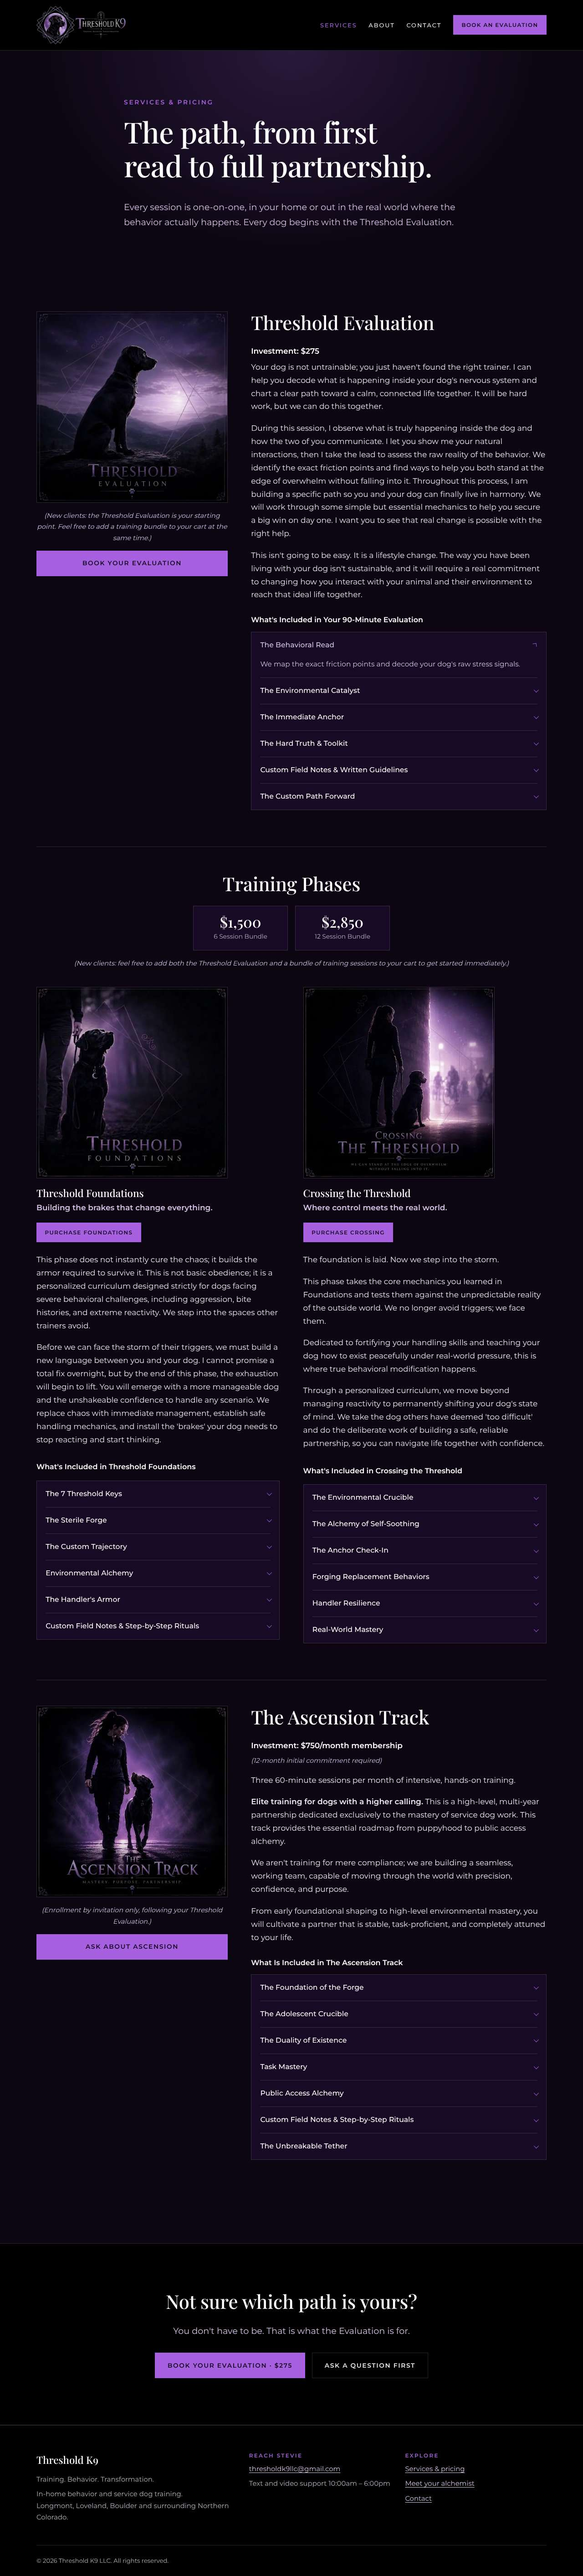
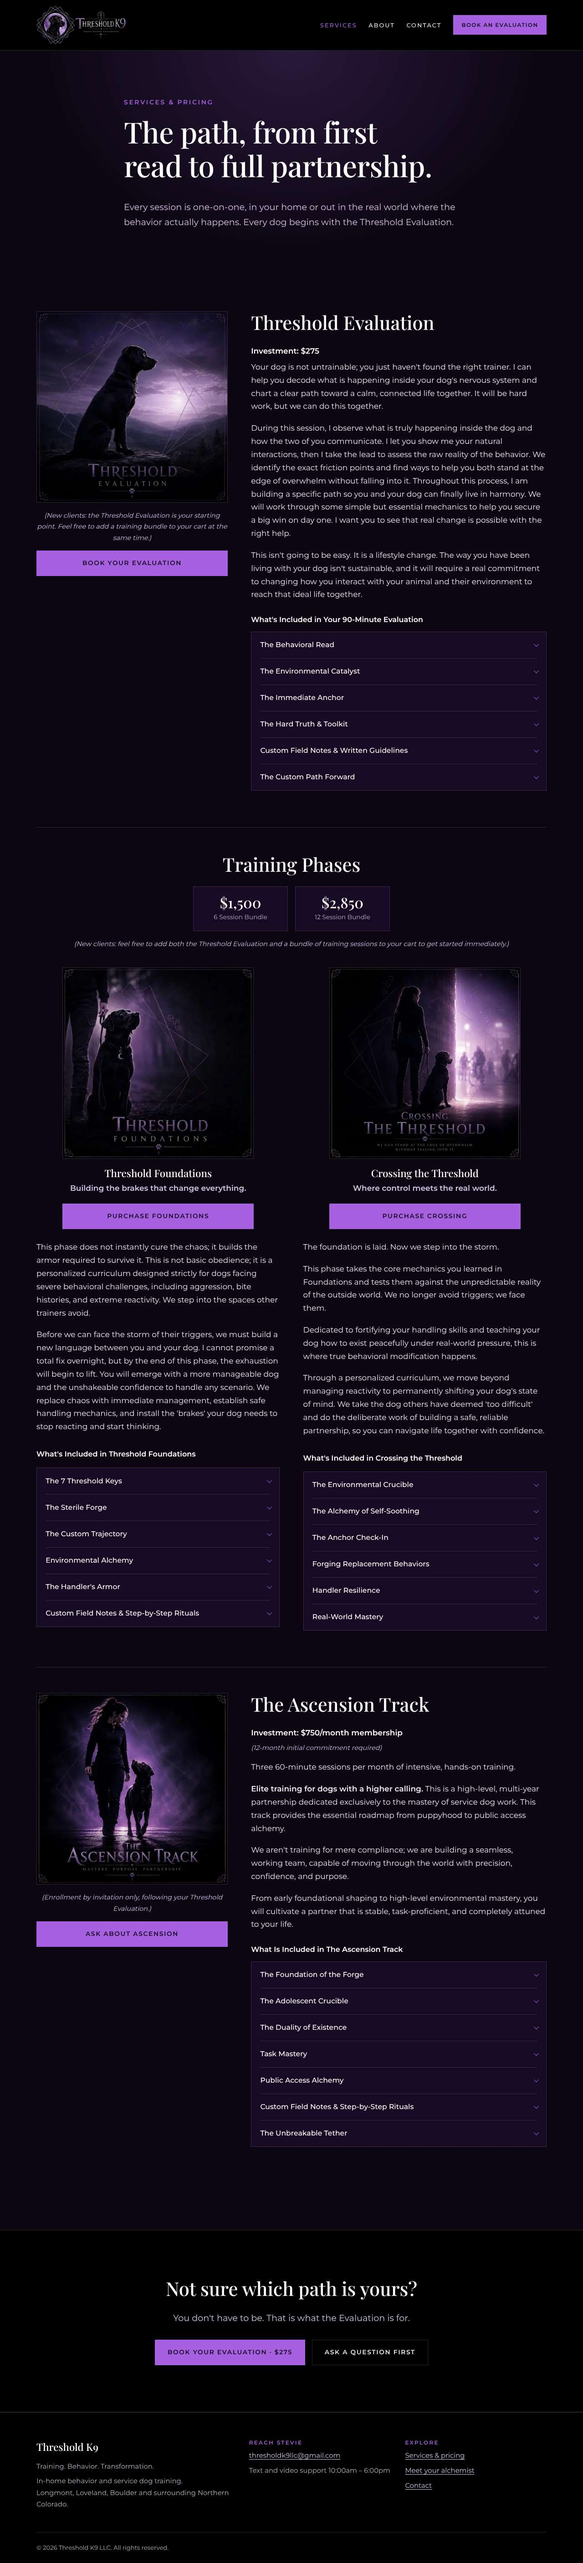
Services: center phase card headers, match all card buttons
Claude-Session: https://claude.ai/code/session_01FX71VwxAMGQj4Z4z8A3LuL

diff --git a/src/pages/services.html b/src/pages/services.html
@@ -14,7 +14,7 @@
       <div class="service-art">
         <img src="/assets/img/card-eval.webp" alt="Threshold Evaluation" width="800" height="800">
         <p class="aside center" style="margin-top:1rem">(New clients: the Threshold Evaluation is your starting point. Feel free to add a training bundle to your cart at the same time.)</p>
-        <a class="btn" style="display:block" href="{{bookUrl}}">Book your Evaluation</a>
+        <a class="btn btn-card" href="{{bookUrl}}">Book your Evaluation</a>
       </div>
       <div>
         <h2>Threshold Evaluation</h2>
@@ -44,10 +44,12 @@
 
       <div class="phase-grid">
         <article id="foundations">
-          <img src="/assets/img/card-foundations.webp" alt="Threshold Foundations" width="800" height="800" loading="lazy">
-          <h3>Threshold Foundations</h3>
-          <p class="tagline">Building the brakes that change everything.</p>
-          <a class="btn btn-small" href="{{bookUrl}}">Purchase Foundations</a>
+          <div class="phase-head">
+            <img src="/assets/img/card-foundations.webp" alt="Threshold Foundations" width="800" height="800" loading="lazy">
+            <h3>Threshold Foundations</h3>
+            <p class="tagline">Building the brakes that change everything.</p>
+            <a class="btn btn-card" href="{{bookUrl}}">Purchase Foundations</a>
+          </div>
           <p>This phase does not instantly cure the chaos; it builds the armor required to survive it. This is not basic obedience; it is a personalized curriculum designed strictly for dogs facing severe behavioral challenges, including aggression, bite histories, and extreme reactivity. We step into the spaces other trainers avoid.</p>
           <p>Before we can face the storm of their triggers, we must build a new language between you and your dog. I cannot promise a total fix overnight, but by the end of this phase, the exhaustion will begin to lift. You will emerge with a more manageable dog and the unshakeable confidence to handle any scenario. We replace chaos with immediate management, establish safe handling mechanics, and install the 'brakes' your dog needs to stop reacting and start thinking.</p>
           <h4 class="includes-head">What's Included in Threshold Foundations</h4>
@@ -62,10 +64,12 @@
         </article>
 
         <article id="crossing">
-          <img src="/assets/img/card-crossing.webp" alt="Crossing the Threshold" width="800" height="800" loading="lazy">
-          <h3>Crossing the Threshold</h3>
-          <p class="tagline">Where control meets the real world.</p>
-          <a class="btn btn-small" href="{{bookUrl}}">Purchase Crossing</a>
+          <div class="phase-head">
+            <img src="/assets/img/card-crossing.webp" alt="Crossing the Threshold" width="800" height="800" loading="lazy">
+            <h3>Crossing the Threshold</h3>
+            <p class="tagline">Where control meets the real world.</p>
+            <a class="btn btn-card" href="{{bookUrl}}">Purchase Crossing</a>
+          </div>
           <p>The foundation is laid. Now we step into the storm.</p>
           <p>This phase takes the core mechanics you learned in Foundations and tests them against the unpredictable reality of the outside world. We no longer avoid triggers; we face them.</p>
           <p>Dedicated to fortifying your handling skills and teaching your dog how to exist peacefully under real-world pressure, this is where true behavioral modification happens.</p>
@@ -87,7 +91,7 @@
       <div class="service-art">
         <img src="/assets/img/card-ascension.webp" alt="The Ascension Track" width="800" height="800" loading="lazy">
         <p class="aside center" style="margin-top:1rem">(Enrollment by invitation only, following your Threshold Evaluation.)</p>
-        <a class="btn" style="display:block" href="/contact/">Ask about Ascension</a>
+        <a class="btn btn-card" href="/contact/">Ask about Ascension</a>
       </div>
       <div>
         <h2>The Ascension Track</h2>

diff --git a/src/assets/site.css b/src/assets/site.css
@@ -170,7 +170,10 @@ section { padding-block: clamp(3.5rem, 8vw, 6.5rem); }
 .phase-grid img { border: 1px solid var(--line); margin-bottom: 1.2rem; max-width: 420px; width: 100%; }
 .phase-grid h3 { margin-bottom: 0.2em; }
 .tagline { font-weight: 600; color: var(--lilac); }
-.phase-grid .btn { margin-bottom: 1.5rem; }
+.phase-head { text-align: center; margin-bottom: 1.6rem; }
+.phase-head img { margin-inline: auto; }
+.btn-card { display: block; width: 100%; max-width: 420px; text-align: center; }
+.phase-head .btn-card { margin: 1.2rem auto 0; }
 
 /* Forms */
 form { display: grid; gap: 1.3rem; }
